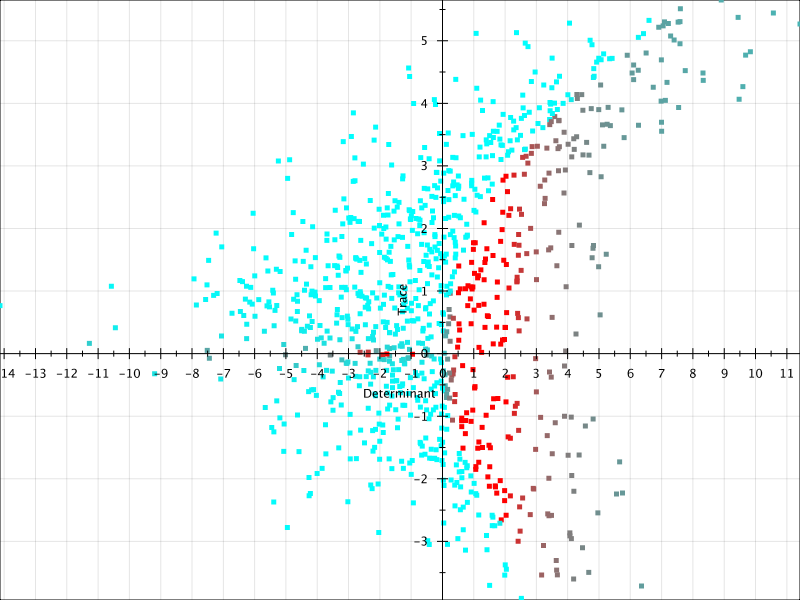
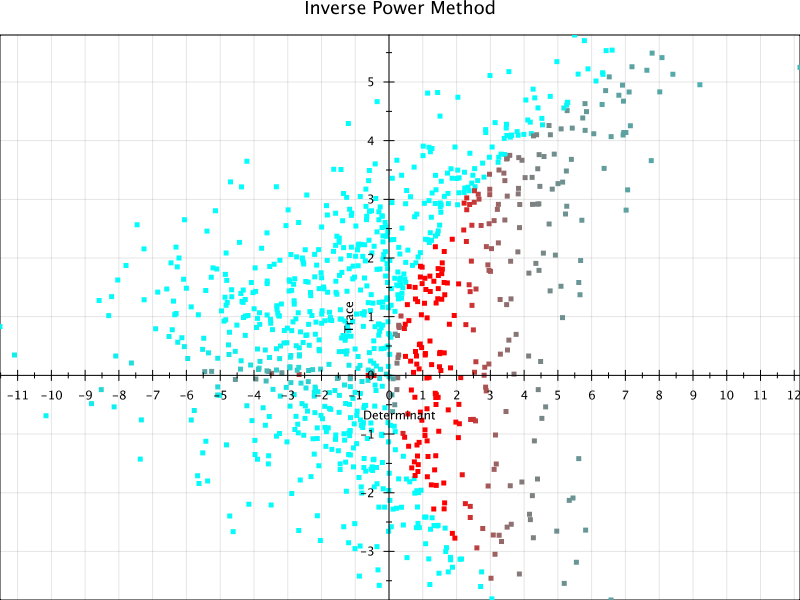
Add the title to the graphs.

diff --git a/src/powermethod/PowerMethodMain.java b/src/powermethod/PowerMethodMain.java
@@ -12,6 +12,7 @@ import java.util.Random;
 import de.erichseifert.gral.data.DataTable;
 import de.erichseifert.gral.io.plots.DrawableWriter;
 import de.erichseifert.gral.io.plots.DrawableWriterFactory;
+import de.erichseifert.gral.plots.Plot;
 import de.erichseifert.gral.plots.XYPlot;
 import de.erichseifert.gral.plots.axes.AxisRenderer;
 import de.erichseifert.gral.plots.points.PointRenderer;
@@ -77,7 +78,7 @@ public class PowerMethodMain {
 			data.add(determinant, trace, group.getPowerMethodIterations());
 		}
 		
-		XYPlot plot = createPlot(data, minIterations, maxIterations);
+		XYPlot plot = createPlot(data, minIterations, maxIterations, "Power Method");
 		savePlot(plot, POWER_METHOD_FILE);
 		
 		/*JFrame frame = new JFrame();
@@ -117,7 +118,7 @@ public class PowerMethodMain {
 			data.add(determinant, trace, group.getPowerMethodIterations());
 		}
 		
-		XYPlot plot = createPlot(data, minIterations, maxIterations);
+		XYPlot plot = createPlot(data, minIterations, maxIterations, "Inverse Power Method");
 		savePlot(plot, INVERSE_POWER_METHOD_FILE);
 		
 		/*JFrame frame = new JFrame();
@@ -134,9 +135,10 @@ public class PowerMethodMain {
 	 * @param data Data for the matrices
 	 * @param minIterations Lowest number of iterations
 	 * @param maxIterations Greatest number of iterations
+	 * @param title Title for the plot
 	 * @return Created XYPlot
 	 */
-	public static XYPlot createPlot(DataTable data, int minIterations, int maxIterations) {
+	public static XYPlot createPlot(DataTable data, int minIterations, int maxIterations, String title) {
 		XYPlot plot = new XYPlot(data);
 		
 		plot.setPointRenderer(data, new IterationsPointRenderer());
@@ -149,6 +151,8 @@ public class PowerMethodMain {
 		
 		plot.getAxisRenderer(XYPlot.AXIS_X).setSetting(AxisRenderer.LABEL, "Determinant");
 		plot.getAxisRenderer(XYPlot.AXIS_Y).setSetting(AxisRenderer.LABEL, "Trace");
+		
+		plot.setSetting(XYPlot.TITLE, title);
 		
 		return plot;
 	}
